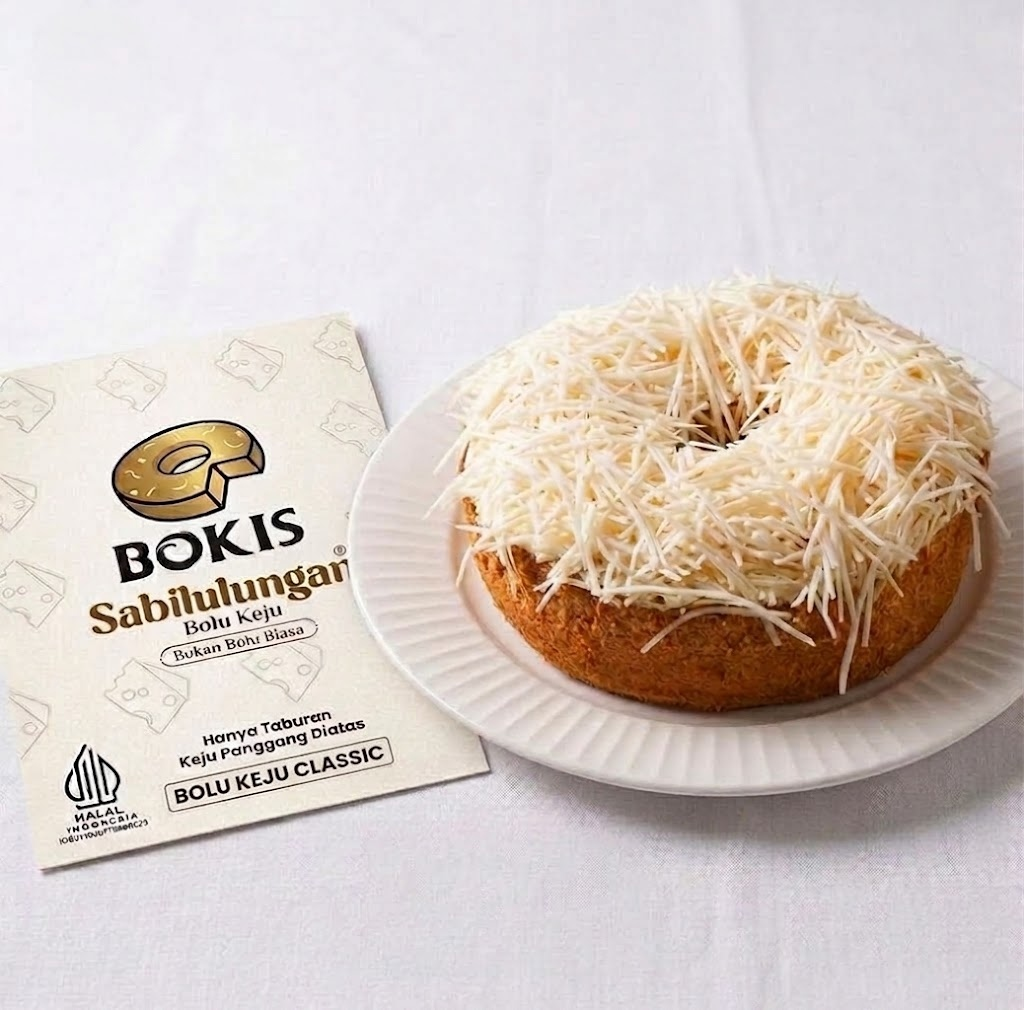
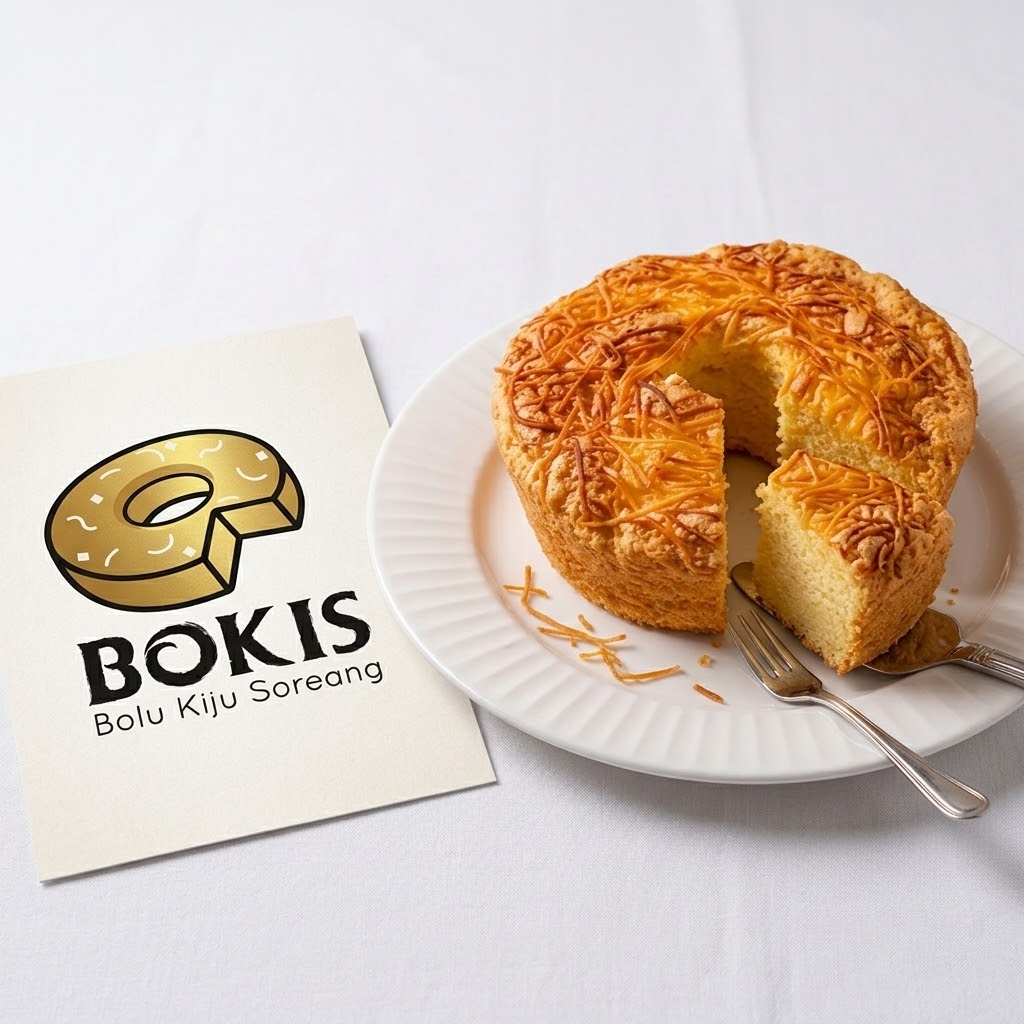
feat(menu): update product images to white background series and add Pandan Extra

diff --git a/src/components/gallery/CreationsGallery.tsx b/src/components/gallery/CreationsGallery.tsx
@@ -47,24 +47,30 @@ const ALL_CREATIONS: CreationItem[] = [
   },
   {
     id: 6,
+    titleId: "Pandan Extra Taburan Parut Berlimpah",
+    titleEn: "Pandan Extra Abundant Shredded Cheese",
+    image: "/images/products/bolu-pandan-extra.jpg",
+  },
+  {
+    id: 7,
     titleId: "Cokelat Classic Manis & Gurih",
     titleEn: "Chocolate Classic Sweet & Savory",
     image: "/images/products/bolu-cokelat-classic.jpg",
   },
   {
-    id: 7,
+    id: 8,
     titleId: "Red Velvet Classic Keju Panggang",
     titleEn: "Red Velvet Classic Baked Cheese",
     image: "/images/products/bolu-red-velvet-classic.jpg",
   },
   {
-    id: 8,
+    id: 9,
     titleId: "Dessert Cube Matcha Lumer",
     titleEn: "Dessert Cube Matcha Melt",
     image: "/images/products/dessert-cube-matcha.jpg",
   },
   {
-    id: 9,
+    id: 10,
     titleId: "Dessert Cube Strawberry Segar",
     titleEn: "Dessert Cube Fresh Strawberry",
     image: "/images/products/dessert-cube-strawberry.jpg",

diff --git a/src/lib/products.ts b/src/lib/products.ts
@@ -117,6 +117,30 @@ export const PRODUCTS: ProductItem[] = [
     imageUrl: "/images/products/bolu-pandan-double.jpg",
     isPopular: true,
   },
+  {
+    id: "bolu-pandan-extra",
+    slug: "bolu-pandan-extra",
+    name: "Pandan Extra",
+    category: "Bolu Kiju Soreang",
+    categorySlug: "bolu-kiju",
+    price: 45000,
+    originalPrice: 50000,
+    rating: 5.0,
+    reviewCount: 285,
+    badge: "PANDAN EXTRA 🧀",
+    description:
+      "Bolu pandan lembut beraroma daun suji & pandan alami dengan limpahan taburan keju cheddar parut segar yang menggunung dan berlimpah di seluruh permukaannya.",
+    ingredients: [
+      "Taburan Keju Parut Melimpah",
+      "Ekstrak Pandan & Suji Alami",
+      "Keju Cheddar Pilihan",
+      "Susu Murni Segar",
+      "Telur Segar",
+      "Mentega Asli",
+    ],
+    imageUrl: "/images/products/bolu-pandan-extra.jpg",
+    isPopular: true,
+  },
 
   // --- BOLU KEJU SABILULUNGAN: SERI CLASSIC LAINNYA ---
   {
